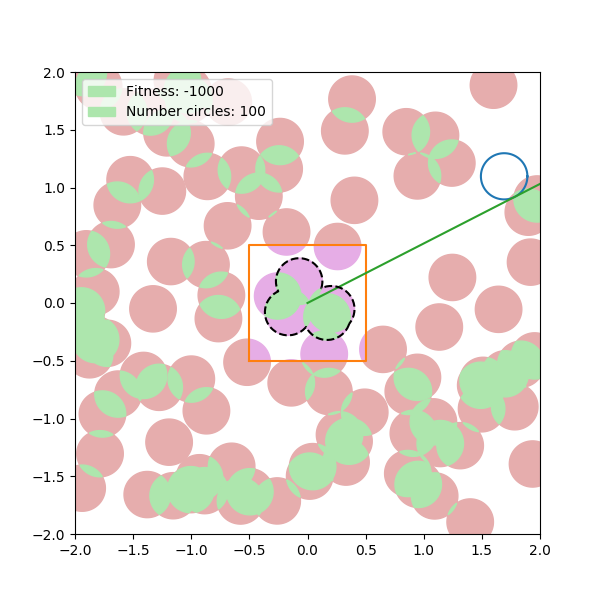
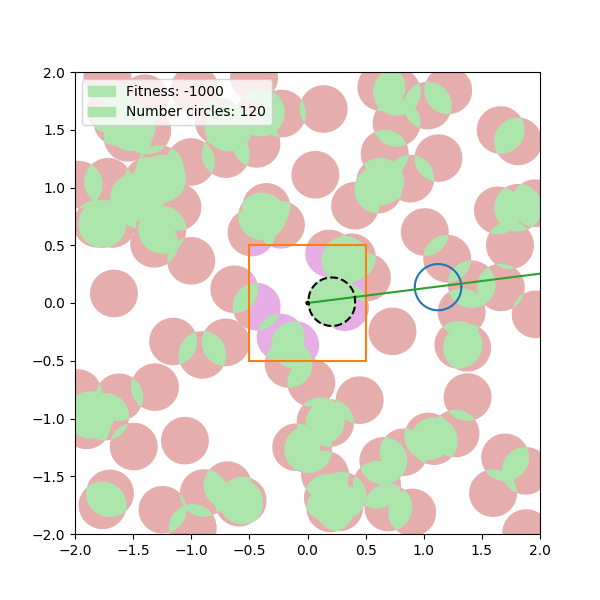
added new repair function

diff --git a/genetic_algo.py b/genetic_algo.py
@@ -386,13 +386,105 @@ def get_extrapolated_line(p1,p2):
     b = (p1.x+EXTRAPOL_RATIO*(p2.x-p1.x), p1.y+EXTRAPOL_RATIO*(p2.y-p1.y) )
     return geometry.LineString([a,b])
 
-def repair_agent(agent, region):
+def get_ordered_list(linrig, point):
+    """ Given LinearRing and point returns list of points closest to said point from polygon """
+    x,y = linrig.xy
+    x, y = list(x), list(y)
+    point_list = list(zip(x,y))
+    point_list.sort(key = lambda p: np.sqrt((p[0] - point.x)**2 + (p[1] - point.y)**2))
+    point_list = [geometry.Point(p[0], p[1]) for p in point_list]
+    return point_list
+
+def repair_agent_center_sonar(agent, region):
     """ repairs agent to possibly cover the region, if the region is not covered it will return false if it is it will return true """
 
     center_pt = region.centroid
 
     #Assigns dotted region, if a circle does not already contain the centroid then it will create a small circle around the centroid
-    dot_region = get_circle(.05, center_pt.xy)
+    dot_region = get_circle(.01, center_pt.xy)
+    x,y = get_circle(1, center_pt.xy, step=200).exterior.coords.xy
+    x,y = list(x), list(y)
+    sweeping_pts = [geometry.Point(i,j) for i,j in zip(x,y)]
+    translated_circles = [] 
+
+    count = 0
+    while True:
+
+        for pt in sweeping_pts: #Iterates through all the closest points till it intersects a circle
+                    
+            line_segment = get_extrapolated_line(center_pt, pt) #Creates extrapolated line between closest poitns 
+
+            try:
+                closest_pt = geometry.polygon.LinearRing(list(dot_region.exterior.coords)).intersection(line_segment)[0] #Returns intersection of sweeping line with dotted region
+            except TypeError:
+                closest_pt = geometry.polygon.LinearRing(list(dot_region.exterior.coords)).intersection(line_segment)
+
+            non_translated_circles = diff(agent.circle_list, translated_circles)
+
+            if non_translated_circles == []: #No circles left to translate and we still haven't covered the region
+                return False
+
+            if dot_region.contains(region): #If the dot region contains the region itself it's sucessful
+                return True
+
+            non_translated_centroid_cirlces = [get_circle(.01, circle.centroid.xy) for circle in non_translated_circles]
+            if cascaded_union(non_translated_centroid_cirlces).intersects(line_segment): #First checks if the extrapolated line even intersects our circles
+                print(count, '---------------------------------', dot_region.contains(region), dot_region.contains(center_pt))
+
+                intersected_circles = [non_translated_circles[i] for i in range(0, len(non_translated_circles)) if non_translated_centroid_cirlces[i].intersects(line_segment)]         
+
+                skewered_circle = min(intersected_circles, key=center_pt.distance) #Finds the correct skewered circle the closer one
+
+                #Calculate where the line intersects the circle
+                lring = geometry.polygon.LinearRing(list(skewered_circle.exterior.coords)) #Translate to line ring
+                points_of_intersection = lring.intersection(line_segment)
+
+                #In case the points of intersection is just a point and not a multipoint
+                try: 
+                    closest_intersection =  min(points_of_intersection, key=center_pt.distance)
+                except TypeError:
+                    closest_intersection = points_of_intersection
+
+                #Calculate how much to translate the circle by
+                delta_x = closest_pt.x - closest_intersection.x
+                delta_y = closest_pt.y - closest_intersection.y
+                translated_circle = affinity.translate(skewered_circle, xoff=delta_x, yoff=delta_y)
+
+
+                #Moves circle
+                agent.circle_list.remove(skewered_circle)
+                agent.circle_list.append(translated_circle)
+                
+                translated_circles.append(translated_circle)
+
+                #Increases size of dotted region
+                dot_region = cascaded_union([dot_region, translated_circle])
+
+
+                #Plotting
+                plt.figure(figsize=(6,6))
+                plt.xlim([bounding_box["bottom left"][0], bounding_box["bottom right"][0]])
+                plt.ylim([bounding_box["bottom left"][1], bounding_box["top left"][1]])
+                agent.plot_agent(test_polygon, colors[1], colors[2], colors[3], bounding_box)
+                plt.plot(*skewered_circle.exterior.xy)
+                plt.plot(*region.exterior.xy)
+                plt.plot(*line_segment.xy)
+                plt.plot(*dot_region.exterior.xy, c='k', linestyle='--')
+                plt.savefig("repair_frames/frame_{0:03d}".format(count))
+                plt.close()
+
+                count += 1                
+    
+
+
+
+def repair_agent_skewer(agent, region):
+    """ repairs agent to possibly cover the region, if the region is not covered it will return false if it is it will return true """
+
+    center_pt = region.centroid
+
+    #Assigns dotted region, if a circle does not already contain the centroid then it will create a small circle around the centroid
+    dot_region = get_circle(.01, center_pt.xy)
     translated_circles = [] 
     for circle in agent.circle_list:
         if circle.contains(center_pt):
@@ -401,83 +493,79 @@ def repair_agent(agent, region):
 
     count = 0
     while not dot_region.contains(region):
-        print(count, '---------------------------------')
-        closest_pts = ops.nearest_points(dot_region.exterior, center_pt)
-        closest_pt = closest_pts[0]
+        print(count, '---------------------------------', dot_region.contains(region), dot_region.contains(center_pt))
+        # closest_pts = ops.nearest_points(dot_region.exterior, center_pt)
+        # closest_pt_1 = closest_pts[0]
+        ordered_pts = get_ordered_list(dot_region.exterior, center_pt)
 
-        print(closest_pt)
+        for closest_pt in ordered_pts: #Iterates through all the closest points till it intersects a circle
 
-        line_segment = get_extrapolated_line(center_pt, closest_pt) #Creates extrapolated line between closest poitns 
-
-
-        non_translated_circles = diff(agent.circle_list, translated_circles)
-        if cascaded_union(non_translated_circles).intersects(line_segment): #First checks if the extrapolated line even intersects our circles
-
-            intersected_circles = [circle for circle in non_translated_circles if circle.intersects(line_segment)]
-            # for circle in agent.circle_list:
-            #     if circle.intersects(line_segment):
-            #         intersected_circles.append(circle)
-
-        
-
-            skewered_circle = min(intersected_circles, key=center_pt.distance) #Finds the correct skewered circle the closer one
-
-            #Calculate where the line intersects the circle
-            lring = geometry.polygon.LinearRing(list(skewered_circle.exterior.coords)) #Translate to line ring
-            points_of_intersection = lring.intersection(line_segment)
-
-            #In case the points of intersection is just a point and not a multipoint
-            try: 
-                closest_intersection =  min(points_of_intersection, key=center_pt.distance)
-            except TypeError:
-                closest_intersection = points_of_intersection
-
-            #Calculate how much to translate the circle by
-            delta_x = closest_pt.x - closest_intersection.x
-            delta_y = closest_pt.y - closest_intersection.y
-            translated_circle = affinity.translate(skewered_circle, xoff=delta_x, yoff=delta_y)
+            line_segment = get_extrapolated_line(center_pt, closest_pt) #Creates extrapolated line between closest poitns 
 
 
-            #Moves circle
-            agent.circle_list.remove(skewered_circle)
-            agent.circle_list.append(translated_circle)
+            non_translated_circles = diff(agent.circle_list, translated_circles)
+            if cascaded_union(non_translated_circles).intersects(line_segment): #First checks if the extrapolated line even intersects our circles
+
+                intersected_circles = [circle for circle in non_translated_circles if circle.intersects(line_segment)]
+                # for circle in agent.circle_list:
+                #     if circle.intersects(line_segment):
+                #         intersected_circles.append(circle)
+
             
-            translated_circles.append(translated_circle)
 
-            #Increases size of dotted region
-            dot_region = cascaded_union([dot_region, translated_circle])
+                skewered_circle = min(intersected_circles, key=center_pt.distance) #Finds the correct skewered circle the closer one
+
+                #Calculate where the line intersects the circle
+                lring = geometry.polygon.LinearRing(list(skewered_circle.exterior.coords)) #Translate to line ring
+                points_of_intersection = lring.intersection(line_segment)
+
+                #In case the points of intersection is just a point and not a multipoint
+                try: 
+                    closest_intersection =  min(points_of_intersection, key=center_pt.distance)
+                except TypeError:
+                    closest_intersection = points_of_intersection
+
+                #Calculate how much to translate the circle by
+                delta_x = closest_pt.x - closest_intersection.x
+                delta_y = closest_pt.y - closest_intersection.y
+                translated_circle = affinity.translate(skewered_circle, xoff=delta_x, yoff=delta_y)
 
 
-            #Plotting
-            plt.figure(figsize=(6,6))
-            plt.xlim([bounding_box["bottom left"][0], bounding_box["bottom right"][0]])
-            plt.ylim([bounding_box["bottom left"][1], bounding_box["top left"][1]])
-            agent.plot_agent(test_polygon, colors[1], colors[2], colors[3], bounding_box)
-            plt.plot(*skewered_circle.exterior.xy)
-            plt.plot(*region.exterior.xy)
-            plt.plot(*line_segment.xy)
-            plt.plot(*dot_region.exterior.xy, c='k', linestyle='--')
-            plt.savefig("repair_frames/frame_{0:03d}".format(count))
-            plt.close()
+                #Moves circle
+                agent.circle_list.remove(skewered_circle)
+                agent.circle_list.append(translated_circle)
+                
+                translated_circles.append(translated_circle)
 
-            count += 1
+                #Increases size of dotted region
+                dot_region = cascaded_union([dot_region, translated_circle])
 
-        else:
-            break
+
+                #Plotting
+                plt.figure(figsize=(6,6))
+                plt.xlim([bounding_box["bottom left"][0], bounding_box["bottom right"][0]])
+                plt.ylim([bounding_box["bottom left"][1], bounding_box["top left"][1]])
+                try:
+                    agent.plot_agent(test_polygon, colors[1], colors[2], colors[3], bounding_box)
+                except:
+                    pass
+                plt.plot(*skewered_circle.exterior.xy)
+                plt.plot(*region.exterior.xy)
+                plt.plot(*line_segment.xy)
+                plt.plot(*dot_region.exterior.xy, c='k', linestyle='--')
+                plt.savefig("repair_frames/frame_{0:03d}".format(count))
+                plt.close()
+
+                count += 1
+                break
+        
+        if closest_pt.xy == ordered_pts[-1].xy:
+            return False
+            
     
-    return dot_region, line_segment
+    return True
 
     
 
-agent = Agent(radius=.2, bounding_box=bounding_box, length=100)
-tmp1, tmp2 = repair_agent(agent, test_polygon)
-
-#Plotting
-plt.figure(figsize=(6,6))
-plt.xlim([bounding_box["bottom left"][0], bounding_box["bottom right"][0]])
-plt.ylim([bounding_box["bottom left"][1], bounding_box["top left"][1]])
-agent.plot_agent(test_polygon, colors[1], colors[2], colors[3], bounding_box)
-plt.plot(*test_polygon.exterior.xy)
-plt.plot(*tmp2.xy)
-plt.plot(*tmp1.exterior.xy, c='k')
-plt.show()
+agent = Agent(radius=.2, bounding_box=bounding_box, length=120)
+tmp = repair_agent_center_sonar(agent, test_polygon)
